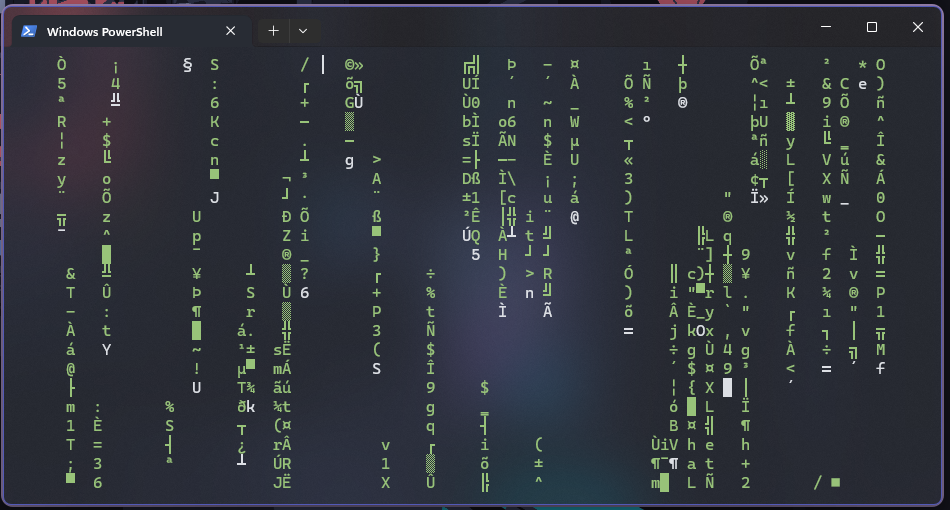
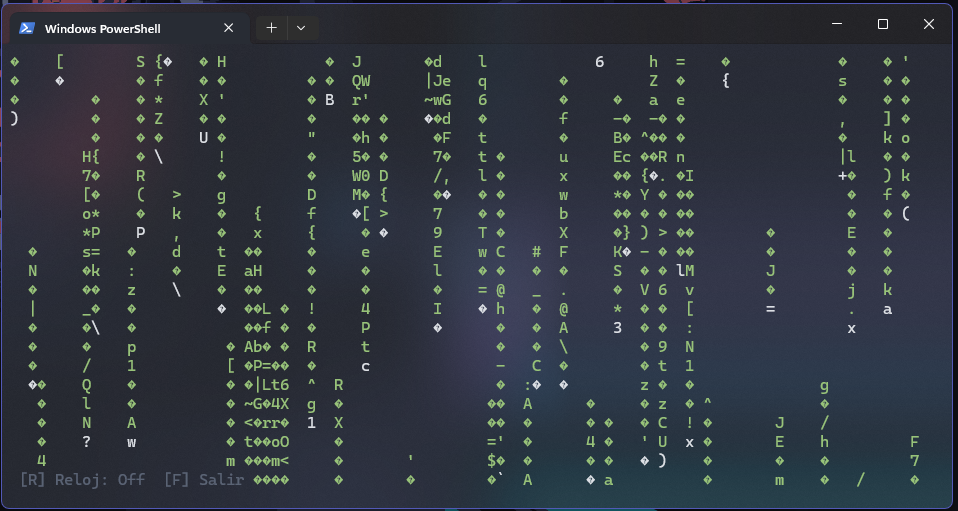
Fix formatting issues in README and update matrix image

diff --git a/README.md b/README.md
@@ -4,7 +4,7 @@ A collection of high-performance PowerShell scripts and utilities for Windows.
 
 ---
 
-## � Quick Start
+## Quick Start
 
 ```powershell
 # 1. Clone the repository
@@ -22,7 +22,7 @@ osfetch.ps1
 
 ---
 
-## �📋 Projects
+## 📋 Projects
 
 ### 1. Matrix Digital Rain
 **Location:** `Matrix/matrix.ps1`
@@ -105,7 +105,7 @@ This repository will be updated with additional PowerShell scripts and utilities
 
 ---
 
-## � Installation
+## Installation
 
 ### Prerequisites
 - **Windows 10/11** with PowerShell 5.1 or later (or PowerShell 7+)
